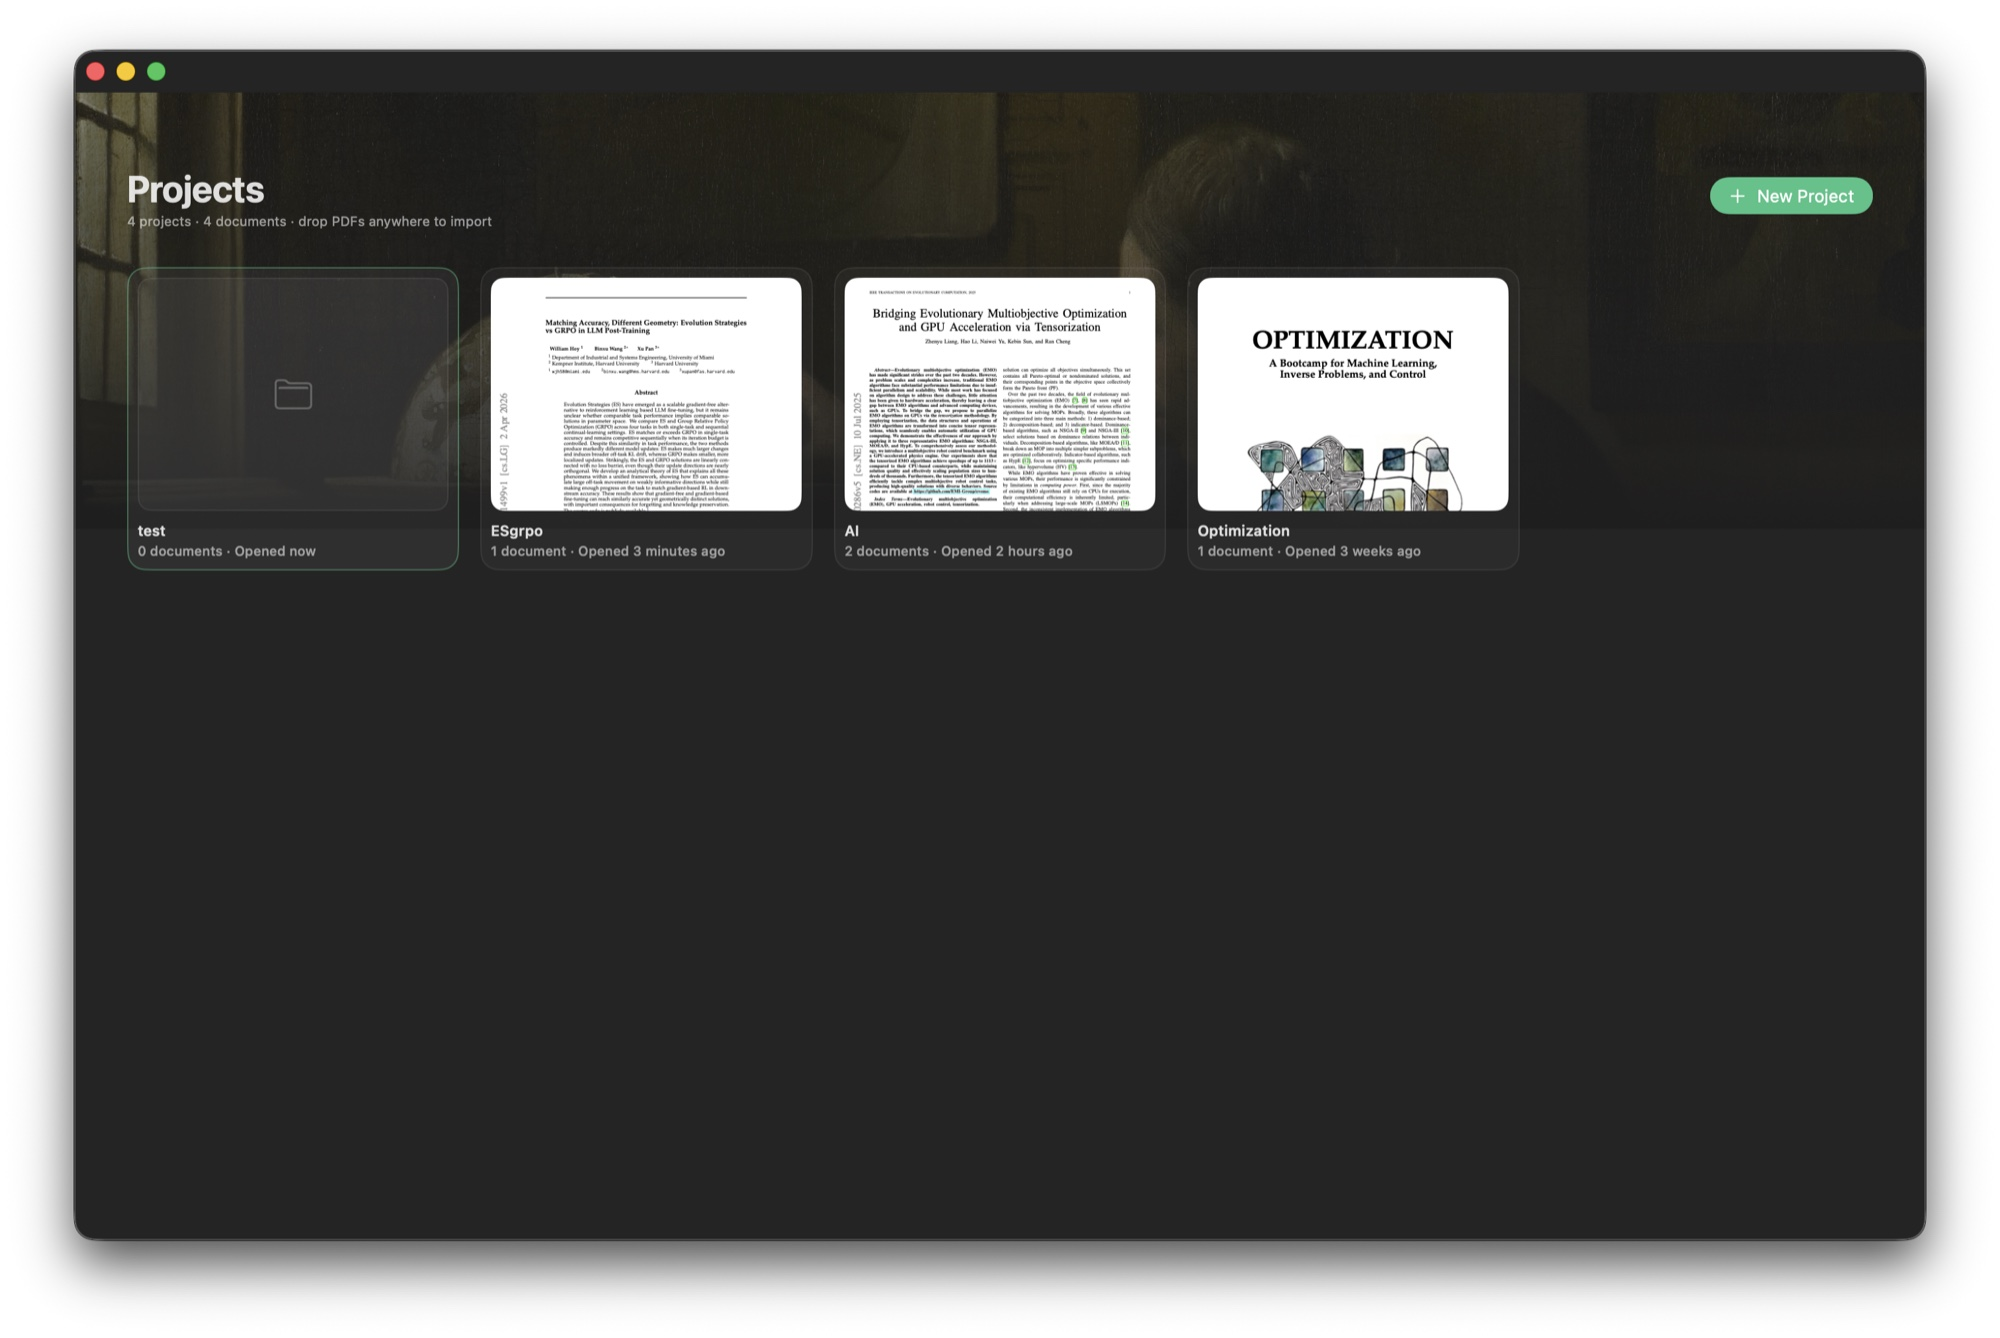
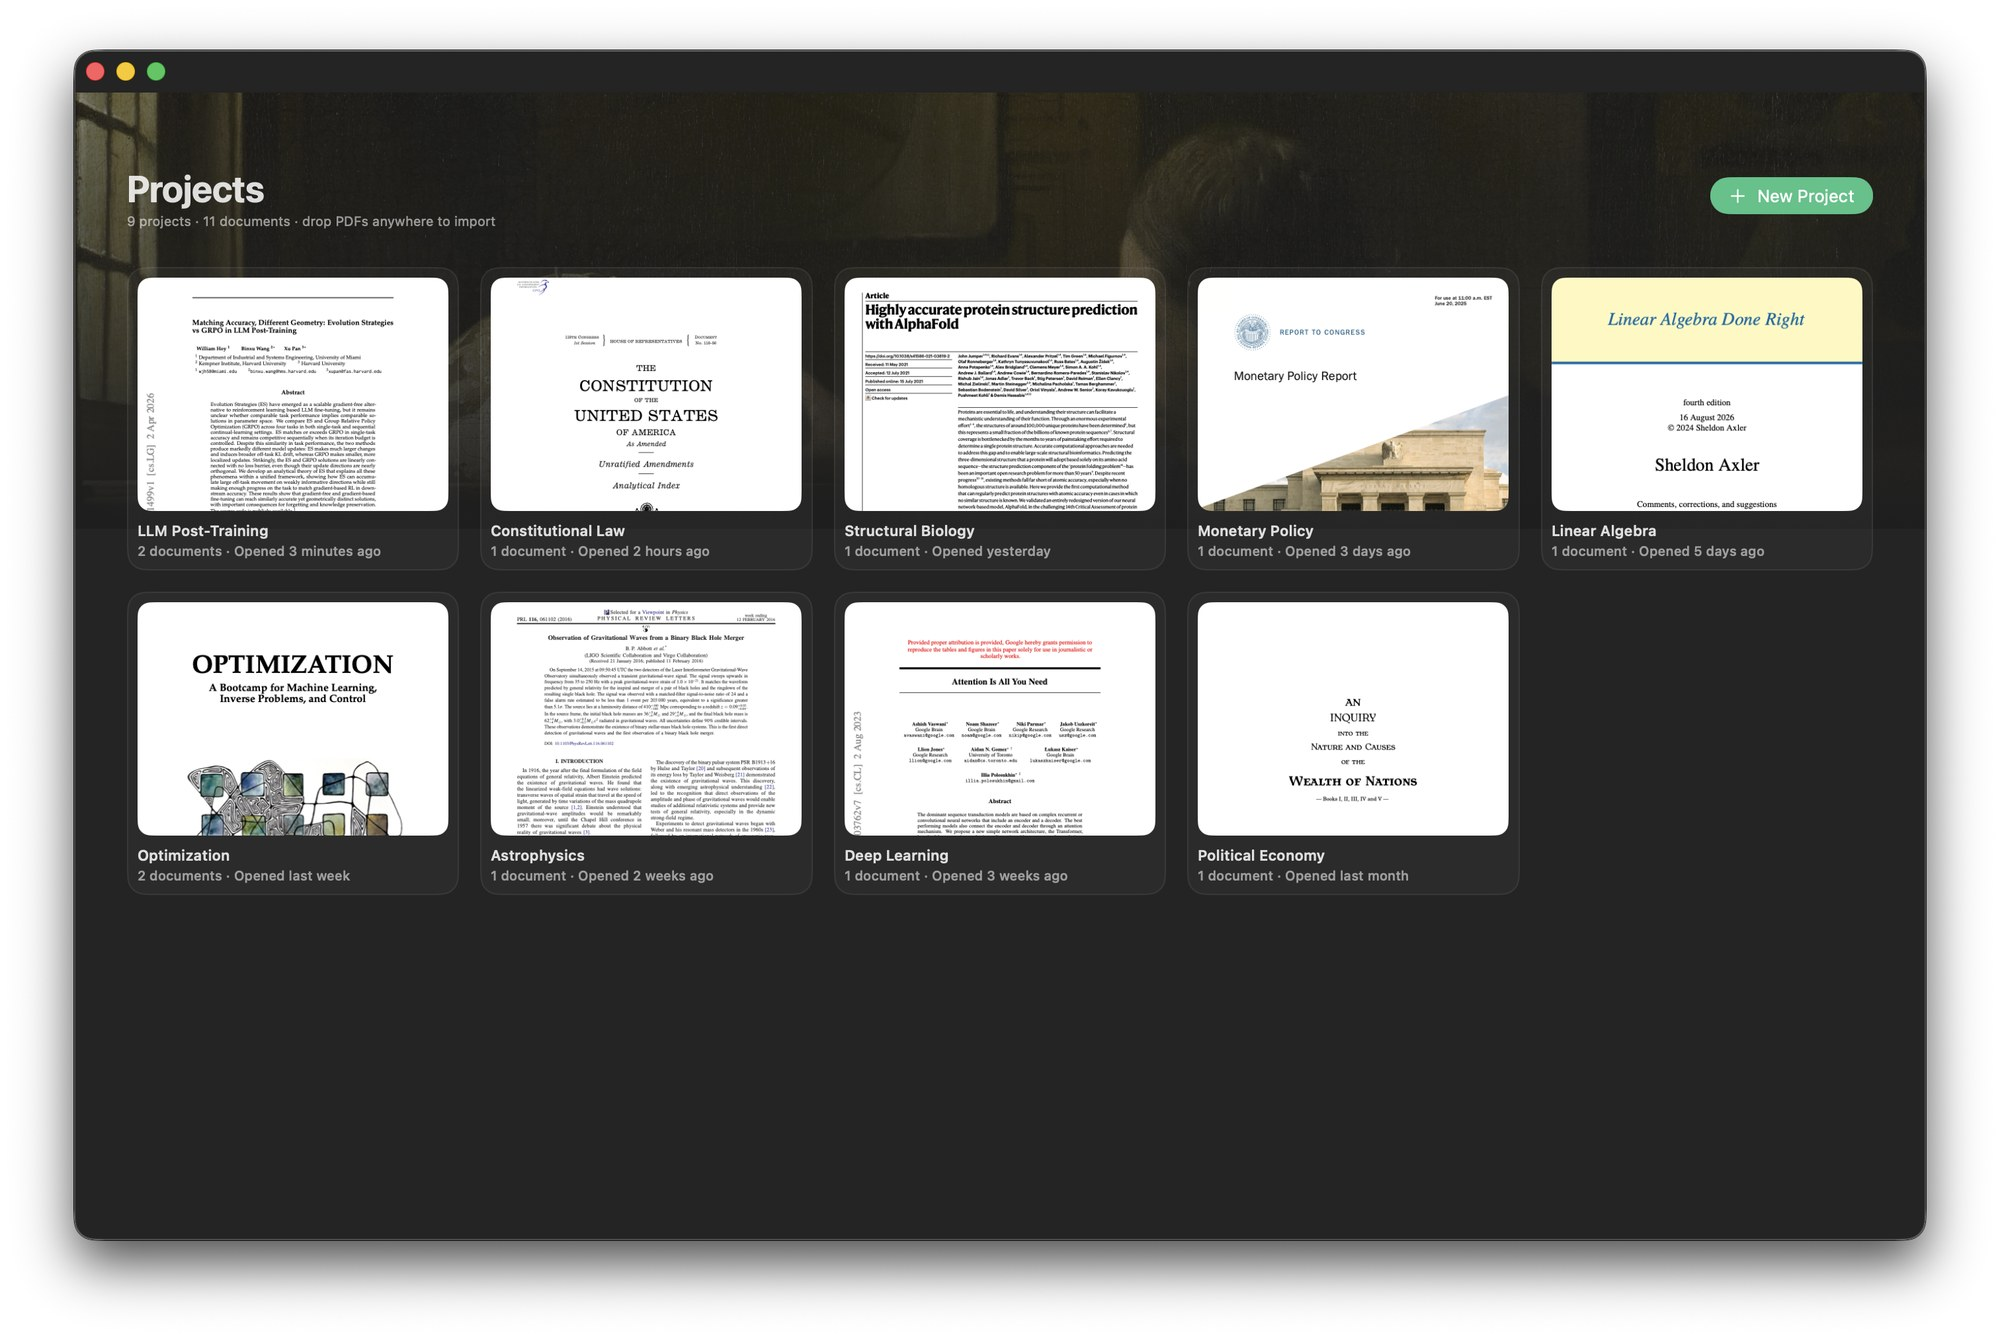
0.5.0 goes live: appcast, site and README

Changed region(s): [[0.062, 0.1532, 0.93, 0.6741]]

diff --git a/index.html b/index.html
@@ -273,7 +273,7 @@
     <div class="demo-wrap">
       <div>
         <h2 class="statement">it reads before it answers.</h2>
-        <p class="lead" style="margin-top:22px">The model has the document's table of contents and two tools: search its text, read its pages. It looks up what your question needs, cites what it found, and every step shows in the conversation. A short paper travels whole; a long book is read on demand.</p>
+        <p class="lead" style="margin-top:22px">The model has the document's table of contents and three tools: search its text, read its pages, and look at a page as it's printed, figures and tables included. It looks up what your question needs and cites the exact words; a click on a citation lands on them. Every step shows in the conversation. A short paper travels whole; a long book is read on demand.</p>
       </div>
       <div class="demo" aria-label="A question being answered: the model searches the document, reads two pages, and replies with page citations">
         <div class="q">Which four tasks does the paper compare, and where does ES win by the most?</div>
@@ -284,9 +284,9 @@
         <div class="fold"><svg viewBox="0 0 24 24" fill="none" stroke="currentColor" stroke-width="2.2" stroke-linecap="round" stroke-linejoin="round"><path d="M14 3H7a2 2 0 0 0-2 2v14a2 2 0 0 0 2 2h10a2 2 0 0 0 2-2V8z"/><path d="M14 3v5h5"/></svg><span>Read pages 3 to 4 · 2 steps</span><span class="chev">›</span></div>
         <div class="a">
           <p class="l1">The four tasks are <b>Countdown</b>, <b>Math</b>, <b>SciKnowEval Chemistry</b> and <b>BoolQ</b> <span class="pg">(p. 3)</span>.</p>
-          <p class="l2">ES beats GRPO by the largest margin on <b>Countdown</b>: 78.6% vs 74.5%, a 4.1 point lead <span class="pg">(p. 4)</span>.</p>
+          <p class="l2">ES beats GRPO by the largest margin on <b>Math</b>: 74.0% vs 68.8%, a <b>5.2 point</b> lead <span class="pg">(p. 4)</span>.</p>
         </div>
-        <div class="bar"><span class="ring"></span><span>GPT-6 Astra · High</span></div>
+        <div class="bar"><span class="ring"></span><span>GPT-6 Sol · Low</span></div>
       </div>
     </div>
     <div class="features">
@@ -296,7 +296,7 @@
       </div>
       <div class="feature">
         <h3 class="h3">diagrams too</h3>
-        <p>Draw over any figure or equation and ask. Captures travel with the conversation, mapped to their place in the document.</p>
+        <p>Hold Option and drag over a figure or equation, then ask. And when a question is about a chart or a table, the model looks at the page itself.</p>
       </div>
       <div class="feature">
         <h3 class="h3">a reading life, kept</h3>
@@ -314,7 +314,7 @@
       <p class="lead">Internalize contains no AI of its own. It drives Codex, the agent inside OpenAI's ChatGPT app, on your Mac and on your account. That's why it's free.</p>
     </div>
     <div class="steps">
-      <div class="step"><div class="n">01</div><h4>install the chatgpt app</h4><p>Codex ships inside the <a href="https://learn.chatgpt.com/codex/app">ChatGPT app for Mac</a>. Sign in with your ChatGPT account. If you already use Codex on this Mac, you're done.</p></div>
+      <div class="step"><div class="n">01</div><h4>have the chatgpt app</h4><p>Internalize answers through the <a href="https://learn.chatgpt.com/codex/app">ChatGPT app for Mac</a>, on your plan. Already use it? You're set: Internalize signs you in with one click, on OpenAI's own page.</p></div>
       <div class="step"><div class="n">02</div><h4>download internalize</h4><p>Open the DMG, drag to Applications, launch. Signed and notarized, no warnings, no setup, and it updates itself from then on.</p></div>
       <div class="step"><div class="n">03</div><h4>read deeper</h4><p>Drop a PDF on the welcome screen, select anything, and ask. Your documents, annotations, and conversations persist in projects, locally.</p></div>
     </div>
@@ -336,7 +336,7 @@
     <div class="grid2">
       <div class="pv"><h4>your documents stay on your mac</h4><p>The only network traffic is your own AI requests, through your own Codex installation.</p></div>
       <div class="pv"><h4>no telemetry, no analytics, no accounts</h4><p>We operate zero servers. Verify it with any network monitor.</p></div>
-      <div class="pv"><h4>credentials never touch internalize</h4><p>You sign in inside the ChatGPT app; Internalize only reads that it's there.</p></div>
+      <div class="pv"><h4>credentials never touch internalize</h4><p>You sign in on OpenAI's page; Internalize only checks that you're signed in.</p></div>
       <div class="pv"><h4>codex runs caged</h4><p>Read-only sandbox, approvals off, an isolated profile with the shell, browser, computer and app access switched off. It can read your document and search the web. It can't act on your Mac.</p></div>
     </div>
   </div>
@@ -349,7 +349,7 @@
     <div class="faq">
       <details>
         <summary>is it really free? what's the catch?</summary>
-        <p>Really free, and open source. The expensive part of AI apps is the AI. Internalize sidesteps that by running on the ChatGPT plan you already have, through Codex on your machine. There's no catch to monetize; if the app earns a place in your reading life, there's a tip jar.</p>
+        <p>Really free. The expensive part of AI apps is the AI. Internalize sidesteps that by running on the ChatGPT plan you already have, through Codex on your machine. There's no catch to monetize; if the app earns a place in your reading life, there's a tip jar.</p>
       </details>
       <details>
         <summary>why does it need codex?</summary>
@@ -357,7 +357,7 @@
       </details>
       <details>
         <summary>does internalize see my chatgpt password or data?</summary>
-        <p>No. You sign in inside the ChatGPT app. Internalize never handles credentials. It runs Codex in an isolated, read-only profile with no shell, so your personal Codex setup is untouched and the app can't perform actions through it, only conversations.</p>
+        <p>No. You sign in on OpenAI's own page (Internalize opens it for you) or in the ChatGPT app. Internalize never handles credentials. It runs Codex in an isolated, read-only profile with no shell, so your own Codex settings are untouched and the app can't perform actions through it, only conversations.</p>
       </details>
       <details>
         <summary>which macs does it support?</summary>

diff --git a/README.md b/README.md
@@ -6,7 +6,7 @@
 
 **A native Mac PDF reader where you converse with what you're reading, on the ChatGPT plan you already have.**
 
-Ask anything about the document, or select a passage first. The AI reads the pages your question needs and cites them.
+Ask anything about the document, or select a passage first. The AI reads (and looks at) the pages your question needs, and cites the exact words: a click lands on them.
 No API keys, no subscription, no servers. Free.
 
 ### [⬇ Download the latest version](https://github.com/seyeint/internalize-releases/releases/latest) · [getinternalize.com](https://getinternalize.com)
@@ -18,7 +18,7 @@ No API keys, no subscription, no servers. Free.
 ## Requirements
 
 - **macOS 15** or newer (Apple Silicon and Intel)
-- The **[ChatGPT app for Mac](https://learn.chatgpt.com/codex/app)**, signed in with your ChatGPT account. Codex ships inside it, and Internalize runs its AI through Codex on *your* plan, which is why it's free and needs no API key
+- The **[ChatGPT app for Mac](https://learn.chatgpt.com/codex/app)**. Codex ships inside it, and Internalize runs its AI through Codex on *your* plan, which is why it's free and needs no API key. If Codex isn't signed in on your Mac yet, Internalize signs you in with one click, on OpenAI's own page
 
 ## Install
 
@@ -30,12 +30,14 @@ The app is signed and notarized by Apple, so it opens without warnings. Updates 
 
 ## Features
 
-- 🤖 The AI reads the document itself: it has the table of contents and two tools (search the text, read pages), looks up what your question needs, and cites the pages. A short document travels in full; a long book is read on demand. Every step shows in the conversation
+- 🤖 The AI reads the document itself: it has the table of contents and three tools (search the text, read pages, look at a page as it's printed, figures and tables included), looks up what your question needs, and cites the exact words. A short document travels in full; a long book is read on demand. Every step shows in the conversation
+- 🎯 Citations land on the words they quote, and light them for a moment; ⌘[ and ⌘] go back and forward through every jump
+- 📖 Printed page numbers, as the book numbers them ("Page xii (14 of 400)"), and Go to Page (⌥⌘G) takes them
+- 👁 Force click a link inside the PDF (a reference, a figure, a chapter) to peek at where it goes without losing your place
 - 🖍 Highlights that stay on the page in the color you chose, with notes, exported as Markdown
 - 📑 The PDF's own contents in the sidebar, with the chapter you're in marked
 - 🔍 Scanned PDFs get their text recognized on your Mac, once; ⌘F search works on them too
-- 🔗 Page references in answers are links: click "p. 12" and you're there
-- ✍ Area capture for diagrams and equations (vision)
+- ✍ Area capture for diagrams and equations (vision): switch to it in the toolbar, or hold Option over the page
 - 🗂 A project hub where every project wears its document's title page; Open With ▸ Internalize from the Finder
 - 🗺 Document map: every highlight anchored to its exact place, plus reading progress
 - ⏱ Focus timer with a reading activity dashboard: heatmap, streaks, time by project
@@ -50,7 +52,7 @@ Internalize is built local-first and is honest about what it touches:
 - **Your documents and conversations never leave your Mac** except as AI requests through your own Codex installation, the same path as chatting in the ChatGPT app itself
 - **No telemetry, no analytics, no accounts, no servers operated by us**
 - Codex runs in an **isolated, read-only profile** with the shell, browser, computer, app, plugin, and multi-agent capabilities switched off: the model can read your document and search the web, and nothing else. Your personal Codex configuration is never loaded
-- Your ChatGPT credentials are **never handled by Internalize**. Sign-in happens in the ChatGPT app; verify all of this with any network monitor
+- Your ChatGPT credentials are **never handled by Internalize**. Sign-in happens on OpenAI's own page (Internalize opens it for you) or in the ChatGPT app; verify all of this with any network monitor
 
 ## Support
 
